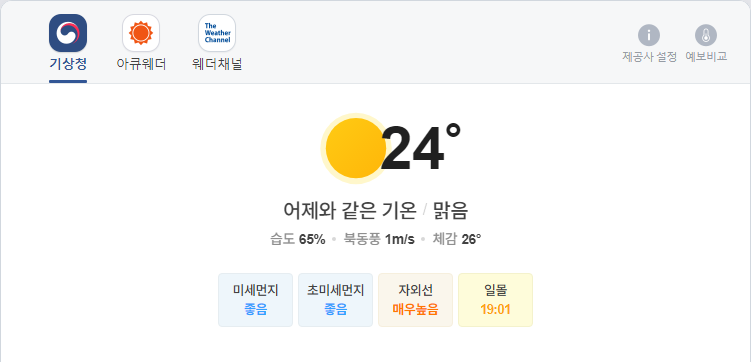
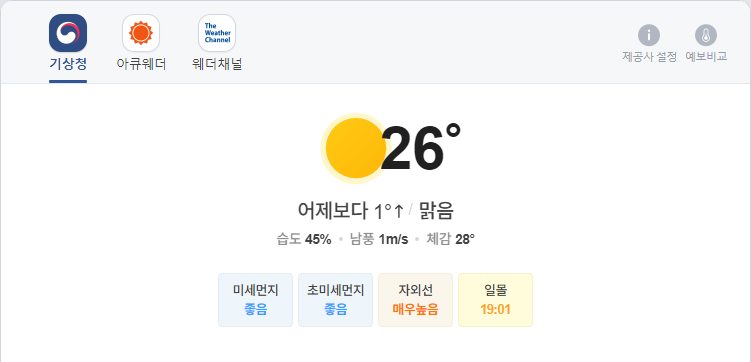
update result

Changed region(s): [[0.3675, 0.547, 0.6431, 0.6077], [0.3675, 0.6381, 0.6431, 0.6989], [0.5513, 0.3343, 0.6125, 0.4862]]

diff --git a/README.md b/README.md
@@ -1,5 +1,5 @@
-##  2021-09-03 09:16:49   금요일 
-##### 날씨   -   어제와 같은 기온맑음  
+##  2021-09-03 12:07:32   금요일 
+##### 날씨   -   어제보다 1° 높아요맑음  
 <center><img src="../img/naver_weather_week.png"></center>
 ----
 ----
@@ -16,14 +16,14 @@
 <tr align = "right" > <td>DOW</td><td>35,443.82</td><td>131.29</td><td><font size="3" color="red" >0.37%</font></td><td><font size="3" color="black">0</font></td><td><font size="3" color="black">0</font></td><td>0</td>  </tr>
 <tr align = "right" > <td>NASDAQ</td><td>15,331.18</td><td>21.8</td><td><font size="3" color="red" >0.14%</font></td><td><font size="3" color="black">0</font></td><td><font size="3" color="black">0</font></td><td>0</td>  </tr>
 <tr align = "right" > <td>S&P</td><td>4,536.95</td><td>12.86</td><td><font size="3" color="red" >0.28%</font></td><td><font size="3" color="black">0</font></td><td><font size="3" color="black">0</font></td><td>0</td>  </tr>
-<tr align = "right" > <td>SHANHAI</td><td>3,597.04</td><td>29.94</td><td><font size="3" color="red" >0.84%</font></td><td><font size="3" color="black">0</font></td><td><font size="3" color="black">0</font></td><td>0</td>  </tr>
+<tr align = "right" > <td>SHANHAI</td><td>3,600.85</td><td>3.81</td><td><font size="3" color="red" >0.11%</font></td><td><font size="3" color="black">0</font></td><td><font size="3" color="black">0</font></td><td>0</td>  </tr>
 <tr align = "right" > <td>INDIA</td><td>57,852.54</td><td>514.33</td><td><font size="3" color="red" >0.9%</font></td><td><font size="3" color="black">0</font></td><td><font size="3" color="black">0</font></td><td>0</td>  </tr>
 </table>
 ----
 ##### 시장
 <table border="1" bordercolor="blue" align = "center" >
 <tr align = "right" > <td>Item</td><td>Price</td><td>Diff</td><td>Rate</td><td>Buy</td><td>Sell</td><td>...</td>  </tr>
-<tr align = "right" > <td>USD</td><td>1,156.0</td><td>-2.2</td><td><font size="3" color="blue">-0.19%</font></td><td><font size="3" color="black">1,110</font></td><td><font size="3" color="black">0</font></td><td>0</td>  </tr>
+<tr align = "right" > <td>USD</td><td>1,155.0</td><td>-3.4</td><td><font size="3" color="blue">-0.29%</font></td><td><font size="3" color="black">1,110</font></td><td><font size="3" color="black">0</font></td><td>0</td>  </tr>
 <tr align = "right" > <td>WTI</td><td>69.99</td><td>1.4</td><td><font size="3" color="red">2.04%</font></td><td><font size="3" color="black">29.0</font></td><td><font size="3" color="black">0</font></td><td>0</td>  </tr>
 <tr align = "right" > <td>GOLD</td><td>1,808.0</td><td>-4.4</td><td><font size="3" color="blue">-0.24%</font></td><td><font size="3" color="black">0</font></td><td><font size="3" color="black">0</font></td><td>0</td>  </tr>
 </table>
@@ -31,32 +31,32 @@
 ##### 주가
 <table border="1" bordercolor="blue" align = "center" >
 <tr align = "right" > <td>Item</td><td>Price</td><td>Diff</td><td>Rate</td><td>Purchased</td><td>Sell</td><td>Buy</td>  </tr>
-<tr align = "right" > <td>한국 전력</td><td>24,000</td><td>150</td><td><font size="3" color="red">0.63%</font></td><td>25,720</td><td><font size="3" color="black">27,700</font></td><td><font size="3" color="black">20,700</font></td>  </tr>
-<tr align = "right" > <td>삼성엔지니어.</td><td>23,450</td><td>150</td><td><font size="3" color="red">0.64%</font></td><td>18,935</td><td><font size="3" color="black">20,000</font></td><td><font size="3" color="black">8,000</font></td>  </tr>
-<tr align = "right" > <td>CJ CGV</td><td>31,600</td><td>250</td><td><font size="3" color="red">0.8%</font></td><td>34,895</td><td><font size="3" color="black">36,000</font></td><td><font size="3" color="black">0</font></td>  </tr>
-<tr align = "right" > <td>아모레퍼시픽</td><td>224,500</td><td>0</td><td><font size="3" color="black">0.0%</font></td><td>235,350</td><td><font size="3" color="black">240,000</font></td><td><font size="3" color="black">130,000</font></td>  </tr>
-<tr align = "right" > <td>한화</td><td>35,950</td><td>200</td><td><font size="3" color="red">0.56%</font></td><td>25,550</td><td><font size="3" color="black">26,250</font></td><td><font size="3" color="black">26,250</font></td>  </tr>
-<tr align = "right" > <td>NAVER</td><td>444,000</td><td>1,500</td><td><font size="3" color="red">0.34%</font></td><td>147,200</td><td><font size="3" color="black">386,000</font></td><td><font size="3" color="black">286,000</font></td>  </tr>
+<tr align = "right" > <td>한국 전력</td><td>23,850</td><td>0</td><td><font size="3" color="black">0.0%</font></td><td>25,720</td><td><font size="3" color="black">27,700</font></td><td><font size="3" color="black">20,700</font></td>  </tr>
+<tr align = "right" > <td>삼성엔지니어.</td><td>23,800</td><td>500</td><td><font size="3" color="red">2.15%</font></td><td>18,935</td><td><font size="3" color="black">20,000</font></td><td><font size="3" color="black">8,000</font></td>  </tr>
+<tr align = "right" > <td>CJ CGV</td><td>31,350</td><td>0</td><td><font size="3" color="black">0.0%</font></td><td>34,895</td><td><font size="3" color="black">36,000</font></td><td><font size="3" color="black">0</font></td>  </tr>
+<tr align = "right" > <td>아모레퍼시픽</td><td>225,500</td><td>1,000</td><td><font size="3" color="red">0.45%</font></td><td>235,350</td><td><font size="3" color="black">240,000</font></td><td><font size="3" color="black">130,000</font></td>  </tr>
+<tr align = "right" > <td>한화</td><td>35,650</td><td>-100</td><td><font size="3" color="blue">-0.28%</font></td><td>25,550</td><td><font size="3" color="black">26,250</font></td><td><font size="3" color="black">26,250</font></td>  </tr>
+<tr align = "right" > <td>NAVER</td><td>450,000</td><td>7,500</td><td><font size="3" color="red">1.69%</font></td><td>147,200</td><td><font size="3" color="black">386,000</font></td><td><font size="3" color="black">286,000</font></td>  </tr>
 <tr align = "right" > <td>LG 화학우</td><td>334,000</td><td>2,000</td><td><font size="3" color="red">0.6%</font></td><td>202,490</td><td><font size="3" color="black">384,000</font></td><td><font size="3" color="orangered">384,000</font></td>  </tr>
-<tr align = "right" > <td>스튜디오드래.</td><td>86,600</td><td>100</td><td><font size="3" color="red">0.12%</font></td><td>81,243</td><td><font size="3" color="black">85,200</font></td><td><font size="3" color="black">85,200</font></td>  </tr>
-<tr align = "right" > <td>QV미국IT</td><td>33,045</td><td>-220</td><td><font size="3" color="blue">-0.66%</font></td><td>0</td><td><font size="3" color="black">30,000</font></td><td><font size="3" color="black">20,000</font></td>  </tr>
-<tr align = "right" > <td>삼성 전자우</td><td>70,800</td><td>500</td><td><font size="3" color="red">0.71%</font></td><td>60,675</td><td><font size="3" color="black">76,000</font></td><td><font size="3" color="black">55,000</font></td>  </tr>
-<tr align = "right" > <td>LS</td><td>67,000</td><td>400</td><td><font size="3" color="red">0.6%</font></td><td>71,900</td><td><font size="3" color="black">82,000</font></td><td><font size="3" color="black">60,000</font></td>  </tr>
-<tr align = "right" > <td>한화에어로스.</td><td>51,700</td><td>0</td><td><font size="3" color="black">0.0%</font></td><td>25,700</td><td><font size="3" color="black">30,000</font></td><td><font size="3" color="black">24,000</font></td>  </tr>
-<tr align = "right" > <td>한화시스템.</td><td>19,350</td><td>0</td><td><font size="3" color="black">0.0%</font></td><td>16,875</td><td><font size="3" color="black">30,000</font></td><td><font size="3" color="black">14,000</font></td>  </tr>
-<tr align = "right" > <td>카카오</td><td>156,000</td><td>1,000</td><td><font size="3" color="red">0.65%</font></td><td>405,500</td><td><font size="3" color="black">440,000</font></td><td><font size="3" color="orangered">400,000</font></td>  </tr>
-<tr align = "right" > <td>호텔 신라</td><td>90,200</td><td>1,300</td><td><font size="3" color="red">1.46%</font></td><td>88,650</td><td><font size="3" color="black">100,000</font></td><td><font size="3" color="black">70,000</font></td>  </tr>
-<tr align = "right" > <td>S-Oil</td><td>92,600</td><td>900</td><td><font size="3" color="red">0.98%</font></td><td>62,842</td><td><font size="3" color="black">100,000</font></td><td><font size="3" color="black">50,000</font></td>  </tr>
-<tr align = "right" > <td>LG전자</td><td>144,500</td><td>5,000</td><td><font size="3" color="red">3.58%</font></td><td>82,022</td><td><font size="3" color="black">100,000</font></td><td><font size="3" color="black">60,000</font></td>  </tr>
-<tr align = "right" > <td>KT&G</td><td>81,800</td><td>0</td><td><font size="3" color="black">0.0%</font></td><td>79,700</td><td><font size="3" color="black">100,000</font></td><td><font size="3" color="black">70,000</font></td>  </tr>
-<tr align = "right" > <td>지역난방공사</td><td>40,400</td><td>-100</td><td><font size="3" color="blue">-0.25%</font></td><td>43,590</td><td><font size="3" color="black">60,000</font></td><td><font size="3" color="black">30,000</font></td>  </tr>
-<tr align = "right" > <td>맥쿼리인프라</td><td>12,550</td><td>0</td><td><font size="3" color="black">0.0%</font></td><td>12,577</td><td><font size="3" color="black">30,000</font></td><td><font size="3" color="black">10,000</font></td>  </tr>
-<tr align = "right" > <td>KOEDX은행</td><td>7,455</td><td>5</td><td><font size="3" color="red">0.07%</font></td><td>7,578</td><td><font size="3" color="black">8,825</font></td><td><font size="3" color="black">6,225</font></td>  </tr>
+<tr align = "right" > <td>스튜디오드래.</td><td>87,000</td><td>500</td><td><font size="3" color="red">0.58%</font></td><td>81,243</td><td><font size="3" color="black">85,200</font></td><td><font size="3" color="black">85,200</font></td>  </tr>
+<tr align = "right" > <td>QV미국IT</td><td>33,060</td><td>-205</td><td><font size="3" color="blue">-0.62%</font></td><td>0</td><td><font size="3" color="black">30,000</font></td><td><font size="3" color="black">20,000</font></td>  </tr>
+<tr align = "right" > <td>삼성 전자우</td><td>70,600</td><td>300</td><td><font size="3" color="red">0.43%</font></td><td>60,675</td><td><font size="3" color="black">76,000</font></td><td><font size="3" color="black">55,000</font></td>  </tr>
+<tr align = "right" > <td>LS</td><td>67,500</td><td>900</td><td><font size="3" color="red">1.35%</font></td><td>71,900</td><td><font size="3" color="black">82,000</font></td><td><font size="3" color="black">60,000</font></td>  </tr>
+<tr align = "right" > <td>한화에어로스.</td><td>51,100</td><td>-600</td><td><font size="3" color="blue">-1.16%</font></td><td>25,700</td><td><font size="3" color="black">30,000</font></td><td><font size="3" color="black">24,000</font></td>  </tr>
+<tr align = "right" > <td>한화시스템.</td><td>19,150</td><td>-200</td><td><font size="3" color="blue">-1.03%</font></td><td>16,875</td><td><font size="3" color="black">30,000</font></td><td><font size="3" color="black">14,000</font></td>  </tr>
+<tr align = "right" > <td>카카오</td><td>156,500</td><td>1,500</td><td><font size="3" color="red">0.97%</font></td><td>405,500</td><td><font size="3" color="black">440,000</font></td><td><font size="3" color="orangered">400,000</font></td>  </tr>
+<tr align = "right" > <td>호텔 신라</td><td>89,500</td><td>600</td><td><font size="3" color="red">0.67%</font></td><td>88,650</td><td><font size="3" color="black">100,000</font></td><td><font size="3" color="black">70,000</font></td>  </tr>
+<tr align = "right" > <td>S-Oil</td><td>93,400</td><td>1,700</td><td><font size="3" color="red">1.85%</font></td><td>62,842</td><td><font size="3" color="black">100,000</font></td><td><font size="3" color="black">50,000</font></td>  </tr>
+<tr align = "right" > <td>LG전자</td><td>147,000</td><td>7,500</td><td><font size="3" color="red">5.38%</font></td><td>82,022</td><td><font size="3" color="black">100,000</font></td><td><font size="3" color="black">60,000</font></td>  </tr>
+<tr align = "right" > <td>KT&G</td><td>82,100</td><td>300</td><td><font size="3" color="red">0.37%</font></td><td>79,700</td><td><font size="3" color="black">100,000</font></td><td><font size="3" color="black">70,000</font></td>  </tr>
+<tr align = "right" > <td>지역난방공사</td><td>40,550</td><td>50</td><td><font size="3" color="red">0.12%</font></td><td>43,590</td><td><font size="3" color="black">60,000</font></td><td><font size="3" color="black">30,000</font></td>  </tr>
+<tr align = "right" > <td>맥쿼리인프라</td><td>12,600</td><td>50</td><td><font size="3" color="red">0.4%</font></td><td>12,577</td><td><font size="3" color="black">30,000</font></td><td><font size="3" color="black">10,000</font></td>  </tr>
+<tr align = "right" > <td>KOEDX은행</td><td>7,460</td><td>10</td><td><font size="3" color="red">0.13%</font></td><td>7,578</td><td><font size="3" color="black">8,825</font></td><td><font size="3" color="black">6,225</font></td>  </tr>
 <tr align = "right" > <td>글로벌럭셔리</td><td>17,950</td><td>50</td><td><font size="3" color="red">0.28%</font></td><td>16,302</td><td><font size="3" color="black">20,000</font></td><td><font size="3" color="black">10,000</font></td>  </tr>
-<tr align = "right" > <td>TIRGER200건설</td><td>3,290</td><td>-5</td><td><font size="3" color="blue">-0.15%</font></td><td>3,440</td><td><font size="3" color="black">4,000</font></td><td><font size="3" color="black">3,000</font></td>  </tr>
-<tr align = "right" > <td>KODEXK미래차</td><td>10,495</td><td>75</td><td><font size="3" color="red">0.72%</font></td><td>10,955</td><td><font size="3" color="black">20,000</font></td><td><font size="3" color="black">10,000</font></td>  </tr>
-<tr align = "right" > <td>TIGER글로벌BBIG</td><td>12,040</td><td>-5</td><td><font size="3" color="blue">-0.04%</font></td><td>11,020</td><td><font size="3" color="black">20,000</font></td><td><font size="3" color="black">10,000</font></td>  </tr>
-<tr align = "right" > <td>TIGER퓨처모빌리티</td><td>10,885</td><td>90</td><td><font size="3" color="red">0.83%</font></td><td>10,695</td><td><font size="3" color="black">20,000</font></td><td><font size="3" color="black">10,000</font></td>  </tr>
-<tr align = "right" > <td>한국금융지주</td><td>93,600</td><td>200</td><td><font size="3" color="red">0.21%</font></td><td>0</td><td><font size="3" color="black">82,000</font></td><td><font size="3" color="black">60,000</font></td>  </tr>
+<tr align = "right" > <td>TIRGER200건설</td><td>3,335</td><td>40</td><td><font size="3" color="red">1.21%</font></td><td>3,440</td><td><font size="3" color="black">4,000</font></td><td><font size="3" color="black">3,000</font></td>  </tr>
+<tr align = "right" > <td>KODEXK미래차</td><td>10,510</td><td>90</td><td><font size="3" color="red">0.86%</font></td><td>10,955</td><td><font size="3" color="black">20,000</font></td><td><font size="3" color="black">10,000</font></td>  </tr>
+<tr align = "right" > <td>TIGER글로벌BBIG</td><td>11,960</td><td>-85</td><td><font size="3" color="blue">-0.71%</font></td><td>11,020</td><td><font size="3" color="black">20,000</font></td><td><font size="3" color="black">10,000</font></td>  </tr>
+<tr align = "right" > <td>TIGER퓨처모빌리티</td><td>10,925</td><td>130</td><td><font size="3" color="red">1.2%</font></td><td>10,695</td><td><font size="3" color="black">20,000</font></td><td><font size="3" color="black">10,000</font></td>  </tr>
+<tr align = "right" > <td>한국금융지주</td><td>93,500</td><td>100</td><td><font size="3" color="red">0.11%</font></td><td>0</td><td><font size="3" color="black">82,000</font></td><td><font size="3" color="black">60,000</font></td>  </tr>
 </table>
 ----
